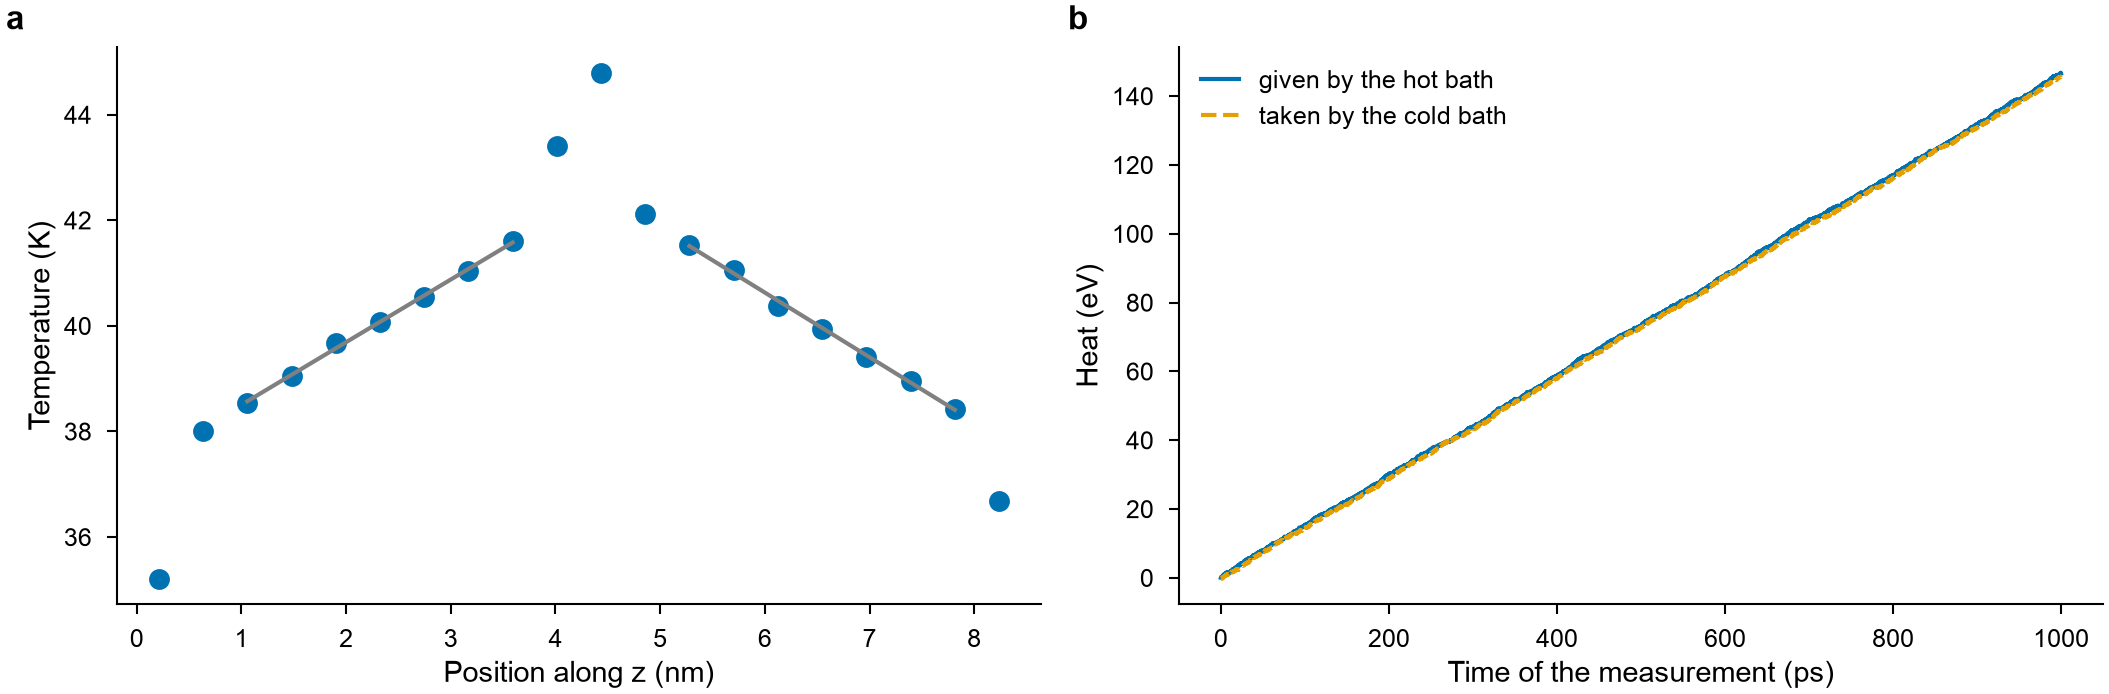
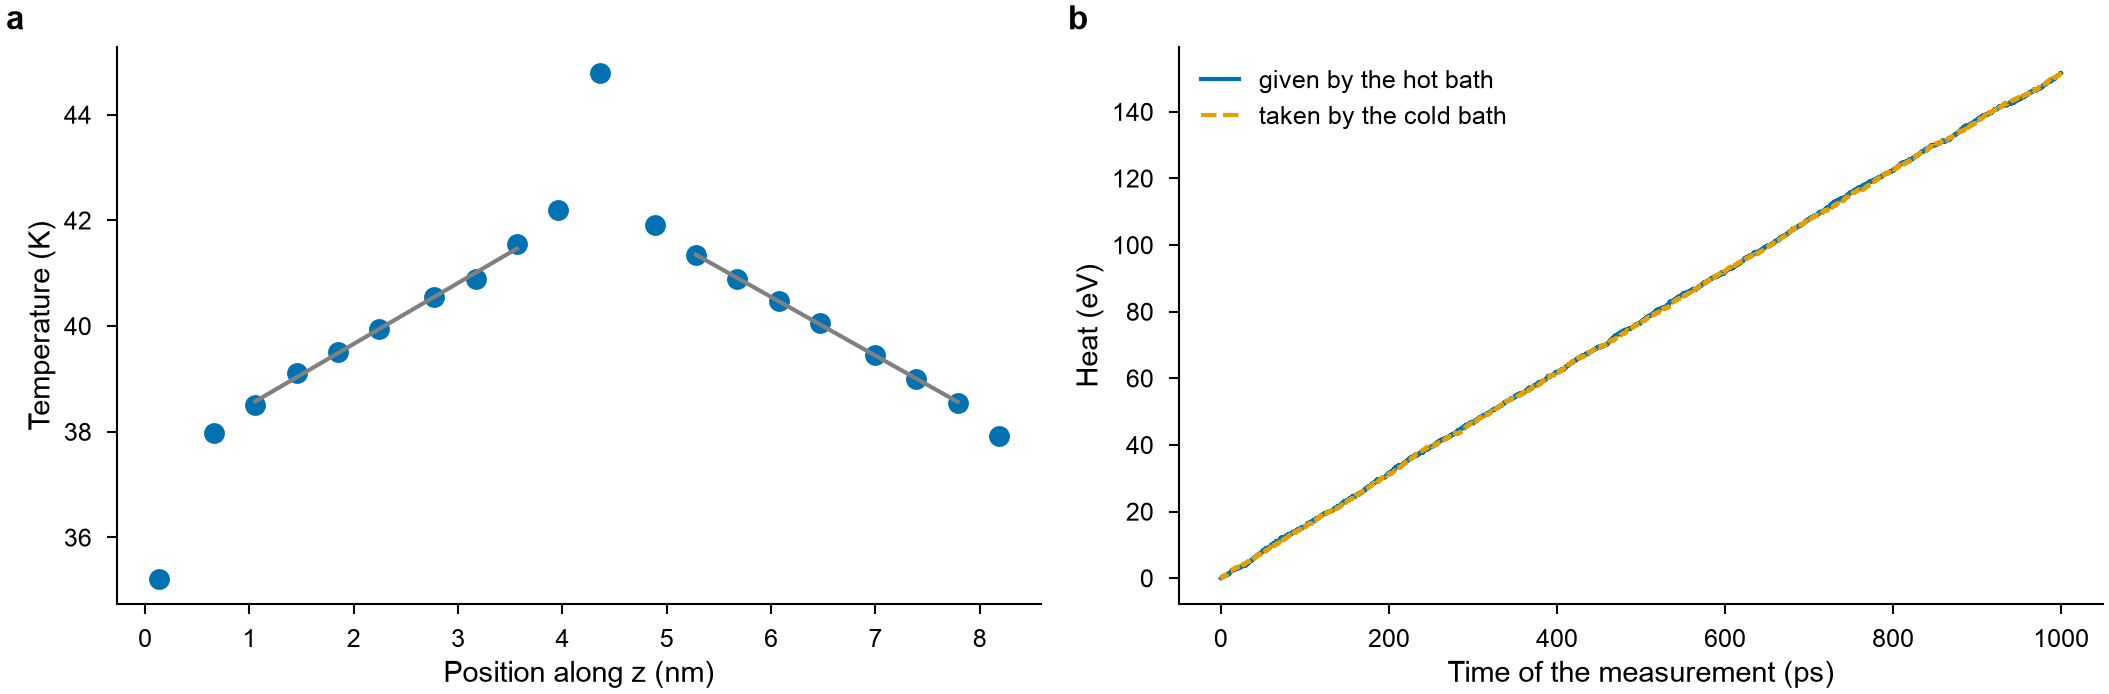
NEMD page: the slabs and the baths as groups of the start, the example run again with them, and the lengths again; the release notes of 2.2.0 say so

diff --git a/docs/user-guide/properties/nemd.md b/docs/user-guide/properties/nemd.md
@@ -33,11 +33,11 @@ result = nemd(
     production=250000,
     every=50,
 )
-result  # NEMD(0.5434 ± 0.0078 W/(m K) at 40.0334 K over 84.48 Å)
+result  # NEMD(0.6024 ± 0.018 W/(m K) at 40.0055 K over 84.48 Å)
 result.flux, result.gradient  # eV/(ps Å²) and K/Å
 ```
 
-The 302 500 steps, 1.2 ns, run in MDAPY in 4 minutes on 8 cores. The temperature of
+The 302 500 steps, 1.2 ns, run in MDAPY in 8 minutes on 8 cores. The temperature of
 the slabs, and the heat the baths exchanged during the measurement:
 
 <!-- skip-test -->
@@ -67,10 +67,12 @@ with plot.style():
 ![The temperature of the slabs of solid argon between a cold and a hot bath, and the heat the baths exchanged](images/nemd.png)
 
 *a: The cold bath at the ends of the box and the hot one in its middle; between them
-the temperature falls linearly, by 0.12 K/Å on both sides, with jumps at the baths,
+the temperature falls linearly, by 0.11 K/Å on both sides, with jumps at the baths,
 where the atoms are thermalized by force. The lines are the fits whose slopes give the
-gradient. b: The heat the hot bath gave and the cold one took grow at one rate, 0.146
-eV/ps, all through the measurement: the steady state holds from its start, after the
+gradient, of the slabs but those next to the baths, which stand off them by 0.1 to
+0.3 K, alike on the two sides of a bath. Each point is at the mean position of the atoms
+of its slab, which holds one or two of the atomic planes, 2.64 Å apart. b: The heat
+the hot bath gave and the cold one took grow at one rate, 0.152 eV/ps, all through the measurement: the steady state holds from its start, after the
 200 ps of `relaxation`. The flux is that rate over twice the section of the box, as the
 heat flows from the hot bath both ways.*
 
@@ -100,21 +102,25 @@ each length on one GPU gave
 
 | Length | κ (W/(m K)) |
 |---|---|
-| 4.2 nm | 0.40 ± 0.02 |
+| 4.2 nm | 0.40 ± 0.01 |
 | 8.4 nm | 0.58 ± 0.01 |
 | 16.9 nm | 0.69 ± 0.02 |
-| 33.8 nm | 0.79 ± 0.01 |
+| 33.8 nm | 0.76 ± 0.02 |
 
-and a line of 1/κ against 1/L reaches 0.91 ± 0.02 W/(m K) at an infinite length.
-The three runs at 8.4 nm spread from 0.566 to 0.595 W/(m K), and three on the
-processor, the one above among them, from 0.543 to 0.576, as the errors of single runs
-from their blocks, 0.008 to 0.03 W/(m K), allow. Take the mean of runs with different
-seeds, and compare boxes of growing length. The [Green–Kubo relation](green-kubo.md)
-and [HNEMD](hnemd.md) need no such length.
+and a line of 1/κ against 1/L reaches 0.90 ± 0.03 W/(m K) at an infinite length.
+The three runs at 8.4 nm spread from 0.566 to 0.597 W/(m K), and the one above, on the
+processor, gave 0.602, as the errors of single runs from their blocks, 0.015 to
+0.025 W/(m K), allow. Take the mean of runs with different seeds, and compare boxes
+of growing length. The [Green–Kubo relation](green-kubo.md) and [HNEMD](hnemd.md) need
+no such length.
 
-**The baths.** The atoms of the first slab along the axis are the cold bath and those of
-the slab in the middle the hot one, as they are at the start: groups that do not
-change, for crystals whose atoms stay in their slabs. The rest run at constant energy.
+**The slabs and the baths.** Each slab is the group of the atoms in it at the start,
+for the temperatures as for the baths: groups that do not change, for crystals whose
+atoms stay in their slabs. The atoms of the first slab along the axis are the cold bath
+and those of the slab in the middle the hot one; the rest run at constant energy. An
+atom of a bath that vibrates across the edge of its slab thus stays out of the
+temperature of the next slab, which it would heat or cool, more on one side of the bath
+than on the other, if the slabs were taken where the atoms are at each sample.
 A larger `difference` gives a smaller error, as long as the gradient stays linear.
 
 ## Results
@@ -128,8 +134,8 @@ A larger `difference` gives a smaller error, as long as the gradient stays linea
 | `error` | float64 | W/(m K) | its standard error, from blocks of the measurement |
 | `flux` | float64 | eV/(ps Å²) | the heat flux through each half of the box |
 | `gradient` | float64 | K/Å | the gradient of temperature, the mean of the two halves |
-| `positions` | (B,) float64 | Å | the middle of each slab along the axis |
-| `temperatures` | (B,) float64 | K | the mean temperature of each slab |
+| `positions` | (B,) float64 | Å | the mean position along the axis of the atoms of each slab at the start |
+| `temperatures` | (B,) float64 | K | the mean temperature of the atoms of each slab |
 | `times` | (S,) float64 | ps | the time of each record of the measurement |
 | `hot`, `cold` | (S,) float64 | eV | the heat the hot and the cold bath gave since the baths began, the cold one negative |
 | `length` | float64 | Å | the length of the box normal to the slabs |

diff --git a/docs/about/release-notes.md b/docs/about/release-notes.md
@@ -16,6 +16,12 @@ included, holds in every later 2.x release. Since 2.2.0rc1:
   indenter for the virial of the atoms, so that the pressure and the stress of `thermo`,
   and a barostat, were wrong while an indenter was there; on the GPU and in LAMMPS they
   were right. See [Indentation](../user-guide/simulation/indentation.md).
+- `nemd` takes the temperature of each slab from the atoms in it at the start, as it
+  takes the baths, and places the slab at their mean position. The atoms of a bath on
+  the edge of its slab vibrated across it and warmed or cooled the next slab, by up to
+  1 K in solid argon at 40 K, on one side of the bath only. The conductivity, fitted
+  without the slabs next to the baths, moved within its errors. See
+  [NEMD](../user-guide/properties/nemd.md).
 - Examples run again, larger and longer: [Deformation](../user-guide/simulation/deformation.md)
   draws the stresses of copper as they are and adds graphene pulled along its two
   directions; [NEMD](../user-guide/properties/nemd.md) shows the heat of the baths and its
